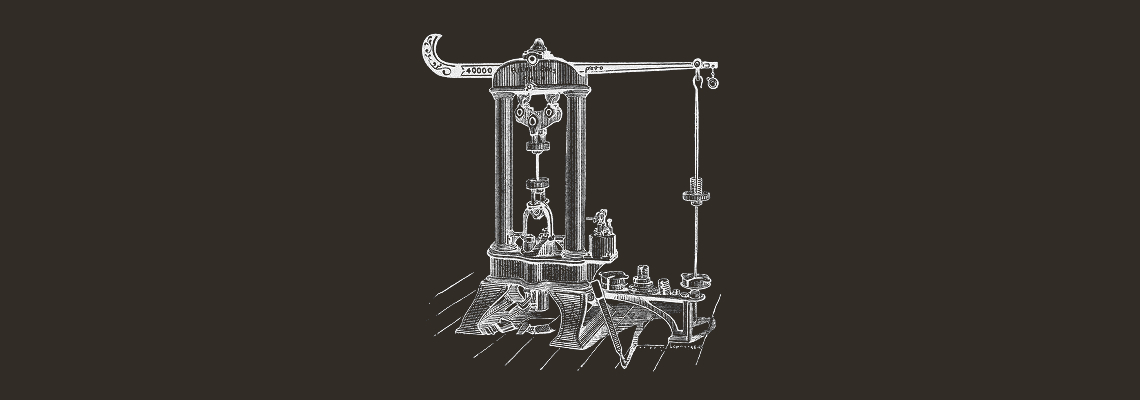
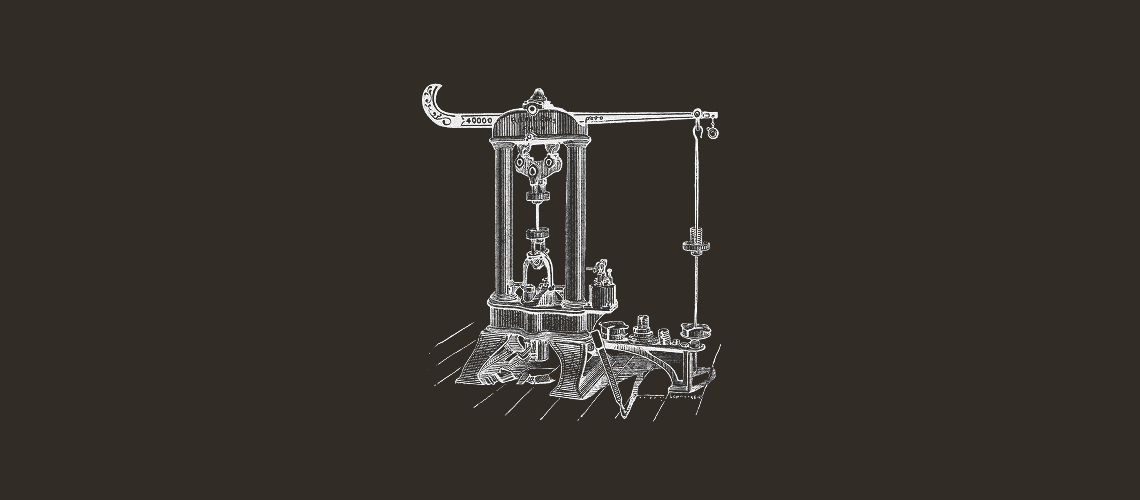
Minor design improvements and tweaks.

Changed region(s): [[0.3684, 0.09, 0.6447, 0.93], [0.5833, 0.45, 0.6447, 0.51]]

diff --git a/themes/botwiki/css/main.3.2.min.css b/themes/botwiki/css/main.3.2.min.css
@@ -1,0 +1,1 @@
+#header h1 a:hover,a,a.pilcrow:hover,a:visited,h1 a,h2 a,h3 a,h4 a,h5 a,h6 a{text-decoration:none}*{box-sizing:border-box}a,abbr,acronym,address,applet,big,blockquote,body,caption,cite,code,dd,del,dfn,div,dl,dt,em,fieldset,font,form,h1,h2,h3,h4,h5,h6,html,iframe,img,ins,kbd,label,legend,li,object,ol,p,pre,q,s,samp,small,span,strike,strong,sub,sup,table,tbody,td,tfoot,th,thead,tr,tt,ul,var{margin:0;padding:0;border:0;outline:0;font-weight:inherit;font-style:inherit;font-size:100%;font-family:inherit;vertical-align:baseline}table{border-collapse:separate;border-spacing:0}caption,td,th{text-align:left;font-weight:400}blockquote:after,blockquote:before,q:after,q:before{content:""}blockquote,q{quotes:"" ""}article,aside,figure,footer,header,nav,section{display:block}button,input[type=button],input[type=submit],label{cursor:pointer}button{width:auto;overflow:visible}img{-ms-interpolation-mode:bicubic;max-width:100%}input,select,textarea{padding:5px;font-size:.8em;color:#666;background:#fff;border:1px solid #999;margin:0}input:focus,select:focus,textarea:focus{color:#160f18;background:#fff;border:1px solid #666}::-webkit-input-placeholder{font-family:'Source Serif Pro',serif}:-moz-placeholder{font-family:'Source Serif Pro',serif}::-moz-placeholder{font-family:'Source Serif Pro',serif}:-ms-input-placeholder{font-family:'Source Serif Pro',serif}body{font:1.2em 'Source Serif Pro',serif;color:#444;line-height:1.2em;padding-top:4em;margin:0 0 80px;background:#EDEDE8;-webkit-font-smoothing:antialiased}blockquote,div.search-instructions,em,i,p.search-instructions{font-style:italic}@media (max-width:860px){body{padding-top:2em}}a,a:visited{color:#4A89DC}a:active,a:hover{color:#160f18}a:hover{transition:all .2s linear}h1,h2,h3,h4,h5,h6{font-family:'Fjalla One',serif;color:#38313a;line-height:1.2em;padding:.5rem}@media (min-width:860px){a:active,a:hover{text-decoration:underline}h1,h2,h3,h4,h5,h6{padding:1rem 2rem}ol,ul{margin:1em 3rem;padding-left:2em}}h1,h2{padding-bottom:1rem}a.pilcrow,a.pilcrow:visited{color:#c0b9c2;transition:color .3s}a.pilcrow:hover{transition:color .3s;color:#160f18}#footer,#footer a{color:#38313a}#footer a,u{text-decoration:underline}h1{font-size:3em;padding-top:3rem}h2{font-size:2.5em;padding-top:1rem}h3{font-size:2em}h4{font-size:1.7em}sub,sup{font-size:smaller}ol,ul{margin:1em 3rem}ol ol,ol ul,ul ol,ul ul{margin:0}b,strong{font-weight:700}abbr,acronym{cursor:help;border-bottom:.1em dotted}td,td img{vertical-align:top}sub{vertical-align:sub}sup{vertical-align:super}code{font-family:Courier,"Courier New",Monaco,Tahoma;background:#eee;color:#333;padding:0 2px}pre{background:#eee;padding:0;margin-bottom:1em;overflow:auto}blockquote{margin:2em 0 2em 4em;padding-left:10px;padding-bottom:0;border-left:5px solid #e3e3de}@media (max-width:900px){blockquote{margin:2em 0 2em 1em}}blockquote p{padding:1em!important;margin:0!important}.twitter-tweet,blockquote.twitter-tweet,iframe,iframe.twitter-tweet{display:block;max-width:100%}.twitter-tweet.twitter-tweet-rendered{margin:2em auto!important}hr{border-top:solid 1px #dfdfdf;border-bottom:none;margin:2em auto;max-width:95%}section.footer-lists{margin:1em auto 3em}footer ul.footer-list{list-style-type:none;display:inline-block;vertical-align:top;width:25%;min-height:265px;margin:0;padding:1em;float:left}@media (max-width:900px){footer ul.footer-list{width:50%;padding:1em 0}}@media (max-width:700px){footer ul.footer-list{width:100%;text-align:center}}footer p{margin:1em auto}footer ul.footer-list li.list-header{text-transform:uppercase;font-weight:700;margin-bottom:1.6em}footer ul.footer-list li:not(.list-header){font-weight:400}footer ul.footer-list li{margin:.5em 0}.centered{display:block;margin:0 auto}.centered-text{text-align:center}img.centered{display:block;margin:3em auto;max-width:100%}@media (min-width:860px){img.extra-margin{margin-top:-1.3em}div.header-image img.header-image-small{display:none}}div.header-image{margin:0 0 -5px}.float-left,.float-right{max-width:410px}footer,footer .inner,header,header .inner{max-width:1500px}.float-right{float:right;padding-left:30px}.float-left{float:left;margin-right:2em;padding-left:0}img.main-banner{margin:10px 0 10px 50px}div.all-tags{text-align:justify}aside#sidebar p,div.sponsors-corporate-organizations,ul#menu{text-align:center}div.all-tags a{padding:0 .2em}.inner{margin:0 auto;padding:5px}@media (min-width:860px){.inner{padding:0 1em}li.active a{border-bottom:3px solid #F5F5F5}}#header{position:fixed;z-index:100;top:0;left:0;right:0;padding:1em 0;color:#5D9CEC;background-color:#38313a;box-shadow:0 4px 40px -15px #333;height:4em}@media (max-width:860px){div.header-image img.header-image-large{display:none}#header{padding:10px;font-size:2em;height:2em}ul#menu{float:right;overflow:auto;max-height:85vh}}#header a{color:#5D9CEC;padding-bottom:8px}#header h1 a{font-family:'Fjalla One',serif}#header a:hover,#header h1 a{color:#fff;text-decoration:none}@media (min-width:912px){#header nav a:hover{border-bottom:3px solid #F5F5F5}}#header a,#header a:hover{transition:border .1s}#header h1{font-size:1.6em;font-weight:700;margin:5px 0;float:left}footer,header{margin:0 auto}label.cursor-pointer{cursor:pointer}a#logo{float:left;margin:.3em .7em 0 0;color:#fff!important}a#logo:hover{border-bottom:none!important}ul#menu{margin-left:0;padding-left:0}#menu-toggle{display:none}#header #menu-icon-wrapper{float:right}#header #menu-icon{display:none;color:#fff;font-size:2em;margin-top:.1em;padding-top:5px;width:36px;height:24px}#header nav{list-style:none;margin:.2em 0 0;font-family:monospace}#header nav li{margin-top:-5px;margin-left:15px}#header nav li:nth-child(2){margin-left:0}#header nav li.form-wrapper{margin-left:0;margin-top:-5px;float:right;width:310px}@media (max-width:1040px){#header nav li.form-wrapper{margin-top:1em;margin-bottom:1em;float:none}}#header nav a{color:#fff;font-weight:bolder}#footer a,.note,aside#sidebar p,div.meta p.share-prompt,table.event-table td.event-speaker{font-weight:700}@media (min-width:1040px){#header nav a{font-size:1.1em}}#header #menu-toggle:checked#menu-icon{background-color:#444;border-radius:4px 4px 0 0}#header ul{list-style:none;padding-top:.6em;margin:0}#header li{display:inline-block;float:left}form#search-form{width:100%;margin-top:-.5em}form#search-form input{padding:.5em 1em;border-radius:4px;outline:0;width:100%;line-height:1.5em}div#content-wrapper{margin:0 auto;max-width:1500px}#content{min-height:90em;background-color:#fff;padding:0;margin-bottom:2em;font-size:1em;line-height:1.3em;position:relative}#footer,div.meta p.last-updated{font-size:.9em}@media (min-width:860px){aside#sidebar{display:block;max-width:300px;position:absolute;border-left:1px solid #f3f3f2;background-color:#f9f9f7;padding:3rem 10px 10px;right:0;top:0;bottom:0}}@media (max-width:860px){div#content-wrapper{margin-top:2em}aside#sidebar{overflow:auto}aside#sidebar hr{display:none}}aside#sidebar p{font-size:.9em;margin:0 .4em 1em}aside#sidebar img{display:block;margin:0 auto .7em}@media (max-width:860px+10px){div.sidebar-module{margin-top:3em;width:50%;min-height:300px;float:left}}aside#sidebar hr{max-width:25%}@media (max-width:700px){div.sidebar-module{margin-top:2em;min-height:auto;width:100%;float:none}aside#sidebar hr{display:block}}div#main{padding:0 0 2em}@media (min-width:860px){div.sidebar-module:not(:first-child){margin-top:10px}div#main{margin-right:300px}}@media (min-width:1040px){aside#sidebar{max-width:360px}div#main{margin-right:360px}}div#main p,p.screenshot{margin:1em 0;padding:.5rem}@media (min-width:800px){p.screenshot{max-width:50%}}p.screenshot img{border:1px solid #ddd}@media (min-width:860px){div#main p,p.screenshot{padding:.5rem 2rem}p.screenshot.float-right{padding-left:30px}p.screenshot.float-left{padding-right:30px}}p.empty-element{padding-top:0!important;padding-bottom:0!important;margin-top:0!important;margin-bottom:0!important}ol li p,ul li p{padding:0!important}#footer{line-height:1.2em;margin:2em auto}#footer a:hover{color:#6b646d}div.sponsors-corporate-organizations img{vertical-align:middle;margin:1em;max-width:300px;max-height:130px}table.event-table td{padding:.5em 0}table.event-table td.event-time{min-width:5em;font-weight:700}div#main p.search-instructions{margin-top:0;padding-top:2em}p.search-instructions code{font-style:normal}div.search-item{border-top:1px solid #eee;padding:2em 0 1em}.note{font-style:italic;background-color:#F7E967;margin:0;padding:0}.note p{padding:.5rem 2rem}.note-alternative{font-style:italic;margin:2em 0}.note.donations{margin-top:2em;padding:0}@media (min-width:860px){div.donations-top-fix{margin-top:-1.1rem}div.donations-top-fix .note.donations{margin-top:auto}}body.front-page .note.donations{margin:3em 0}span.normal-text{font-style:normal}div.meta p.share-prompt{border-top:2px dashed #dcdcd7;padding-top:2em!important;margin-top:2em!important}ul.sharing-is-caring{padding:0;list-style:none}@media (max-width:860px){ul.sharing-is-caring{margin:10px}}ul.sharing-is-caring li{display:inline}ul.sharing-is-caring li a{transition:opacity .4s}ul.sharing-is-caring li a img{max-width:1.8em;border-radius:50%}ul.sharing-is-caring li a:hover{opacity:.8;transition:opacity .4s}div.meta p.last-updated,div.search-item p.meta{font-style:italic}img.photo{margin:1em}@media (max-width:900px){img.photo{margin:2em auto .4em}}img.round-borders{border-radius:5px}div.article-thumbnail{text-align:center;padding-bottom:0;margin-bottom:1.5em}div.article-thumbnail img{margin-bottom:-10px}div.search-thumbnail img{border:1px solid #efefef}@media (min-width:800px){div.search-text,div.search-thumbnail{width:45%;padding:1em}div.search-thumbnail img{max-width:100%}div.search-thumbnail{float:right}div.search-text{float:left}}.clearfix:after,.clearfix:before{content:" ";display:table}.clearfix:after{clear:both}img.logo-digitalocean{height:1.15em;vertical-align:sub}@media (max-width:800px){.float-left,.float-right{max-width:100%;float:none;display:block;margin:0 auto}.float-right{padding-left:0}img.main-banner{margin:0 auto}.inner img{max-width:100%}#header h1 a{font-size:1em}}@media (max-width:1040px){div.article-thumbnail img{object-fit:cover;min-height:450px}#header #menu-icon{display:inline-block}#header nav a{color:#160f18}#header nav a:hover{color:#434a54}#header nav ul,nav:active ul,ul#menu{opacity:0;position:absolute;padding:20px;background:#fff;border-top:1px solid #38313a;border-bottom:1px solid #38313a;box-shadow:0 10px 100px -10px #333;left:-100px;top:2.3em;width:100%;z-index:9999;transition:all .2s;pointer-events:none}#header nav li{width:100%;padding:20px 0;margin:0 0 0 30px;opacity:0;transition:all .2s}div.callout{max-width:1500px;margin:0 auto;font-weight:700;background-color:#050007;color:#fff;overflow:auto;padding:.5em 0}div.callout>p{padding:0;margin:0;text-align:center}div.callout a{color:#fff;text-decoration:underline}#header nav li:nth-child(1){transition-delay:0s}#header nav li:nth-child(2){transition-delay:50ms}#header nav li:nth-child(3){transition-delay:.1s}#header nav li:nth-child(4){transition-delay:.15s}#header nav li:nth-child(5){transition-delay:.2s}#header nav li:nth-child(6){transition-delay:.25s}#header nav li:nth-child(7){transition-delay:.3s}#header nav li:nth-child(8){transition-delay:.35s}#header nav #menu-toggle:checked ul,#menu-toggle:checked+#menu{opacity:1;left:0;pointer-events:all}#header nav #menu-toggle:checked+#menu li{margin-left:0;opacity:1}}@media (max-width:1040px) and (min-width:1500px){#header nav li{padding:10px 0}}@media (max-width:480px){#header h1 a{font-size:1em}}div.bottom-page-links{position:fixed;bottom:10px;right:10px}div.bottom-page-links a{display:inline-block;cursor:pointer;width:1.5em;height:1.5em;text-decoration:none;line-height:1.5em;background-color:#38313a;color:#fff;vertical-align:top;text-align:right;font-size:2.5em;border-radius:5px}@media (min-width:860px){div.bottom-page-links a{opacity:.8;font-size:1.9em}}div.bottom-page-links a:hover{opacity:1}div.bottom-page-links a#back-to-top{padding:12px}a#search-help{position:absolute;margin-left:-1em;color:#dadada!important;top:2.3em}@media (min-width:860px){a#search-help{top:1.5em;margin-left:-25px}}a#search-help:hover{border:none!important;color:#adadad!important}video{width:100%!important;height:auto!important}.video-wrapper{position:relative;margin:3em 0;padding-bottom:56.25%;padding-top:25px;height:0}.video-wrapper iframe{position:absolute;top:0;left:0;width:100%;height:100%}.lazy-load{opacity:0;-webkit-transform:translate(0,30px);-ms-transform:translate(0,30px);transform:translate(0,30px)}.lazy-loaded{opacity:1;-webkit-transform:translate(0,0);-ms-transform:translate(0,0);transform:translate(0,0)}.lazy-load,.lazy-loaded{transition:all .3s}.slide-down,.slide-up{transition:all .5s}.slide-up{opacity:1;pointer-events:all;-webkit-transform:translate(0,0);-ms-transform:translate(0,0);transform:translate(0,0)}.slide-down{opacity:0;pointer-events:none;-webkit-transform:translate(0,150px);-ms-transform:translate(0,150px);transform:translate(0,150px)}

diff --git a/themes/botwiki/index.html b/themes/botwiki/index.html
@@ -43,7 +43,7 @@
   <link rel="icon" href="https://botwiki.org/content/images/favicon-32.png" sizes="32x32" />
   <link rel="icon" type="image/png" href="https://botwiki.org/content/images/favicon-64.png" />
   <link href='https://fonts.googleapis.com/css?family=Fjalla+One|Source+Serif+Pro|Bree+Serif|Lato' rel='stylesheet' type='text/css'>
-  <link rel="stylesheet" href="{{ theme_url }}/css/main.3.1.3.min.css" type="text/css" />  
+  <link rel="stylesheet" href="{{ theme_url }}/css/main.3.2.min.css" type="text/css" />  
 {% if meta.has_code == 'yes' %}
   <link rel="stylesheet" href="{{ theme_url }}/libs/highlight.js/styles/monokai-sublime.css" type="text/css" />
 {% endif %}
@@ -74,7 +74,8 @@
     {% if is_front_page %}
       <div class="header-image">
         <a href="/bots/twitterbots/NixieBot">
-          <img src="{{ meta.thumbnail }}" data-src="{{ meta.thumbnail }}" class="u-photo lazy-load">
+          <img class="header-image-large u-photo lazy-load" src="{{ meta.thumbnail }}" data-src="{{ meta.thumbnail }}">
+          <img class="header-image-small u-photo lazy-load" src="{{ meta.smallthumbnail }}" data-src="{{ meta.smallthumbnail }}">
         </a>
       </div>
     {% endif %}

diff --git a/themes/botwiki/css/main.3.2.css b/themes/botwiki/css/main.3.2.css
@@ -408,6 +408,16 @@ div.header-image {
   margin: 0 0 -5px;
   /* ??? */
 }
+@media (min-width: 860px) {
+  div.header-image img.header-image-small {
+    display: none;
+  }
+}
+@media (max-width: 860px) {
+  div.header-image img.header-image-large {
+    display: none;
+  }
+}
 .float-right,
 .float-left {
   max-width: 410px;
@@ -874,10 +884,17 @@ img.round-borders {
 div.article-thumbnail {
   text-align: center;
   padding-bottom: 0;
+  margin-bottom: 1.5em;
 }
 div.article-thumbnail img {
   margin-bottom: -10px;
   /* ??? */
+}
+@media (max-width: 1040px) {
+  div.article-thumbnail img {
+    object-fit: cover;
+    min-height: 450px;
+  }
 }
 div.search-thumbnail img {
   border: 1px solid #efefef;

diff --git a/themes/botwiki/src/styles/styles.less b/themes/botwiki/src/styles/styles.less
@@ -356,6 +356,16 @@ img.extra-margin{
 
 div.header-image{
   margin: 0 0 -5px; /* ??? */
+  img.header-image-small{
+    @media (min-width: @site-width-small){
+      display: none;
+    }
+  }
+  img.header-image-large{
+    @media (max-width: @site-width-small){
+      display: none;
+    }
+  }
 }
 
 .float-right,
@@ -859,8 +869,13 @@ img.round-borders{
 div.article-thumbnail{
   text-align: center;
   padding-bottom: 0;
+  margin-bottom: 1.5em;
   img{
     margin-bottom: -10px; /* ??? */
+    @media (max-width: @site-width-medium){
+      object-fit: cover;
+      min-height: 450px;
+    }
   }
 }
 

diff --git a/config.php b/config.php
@@ -44,6 +44,7 @@ $config['ptags_template'] = 'index';
 $config['custom_meta_values'] = array(
   'nav' => 'Nav',
   'thumbnail' => 'Thumbnail',
+  'smallthumbnail' => 'Small thumbnail',
   'link' => 'Link',
   'language' => 'Language',
   'translations' => 'Translations',

diff --git a/content/articles/selected-articles/2016.md b/content/articles/selected-articles/2016.md
@@ -9,6 +9,7 @@ Show donation link: yes
 
 For the latest articles follow [@botwikidotorg](https://twitter.com/botwikidotorg) and subscribe to the [Bot! zine](http://botzine.org/) newsletter!
 
+- [Google AI invents its own cryptographic algorithm; no one knows how it works](http://arstechnica.co.uk/information-technology/2016/10/google-ai-neural-network-cryptography/) (arstechnica.co.uk)
 - [A.I. Inspiration: The Science Fiction That Frames Discussion](http://www.nytimes.com/2016/10/26/us/robots-science-fiction-movies-books.html) (nytimes.com)
 - [Chatbots with Social Skills Will Convince You to Buy Something](https://www.technologyreview.com/s/602692/chatbots-with-social-skills-will-convince-you-to-buy-something/) (technologyreview.com)
 - [33% of pro-Trump tweets are generated by bots and automated accounts, compared to 22% for Clinton, researchers find](http://money.cnn.com/2016/10/18/technology/twitter-bots-donald-trump-hillary-clinton/index.html?sr=twCNN101816twitter-bots-donald-trump-hillary-clinton0514PMVODtopLink&linkId=30079940) (money.cnn.com)

diff --git a/content/index.md b/content/index.md
@@ -3,6 +3,7 @@ Title: Catalog of friendly, useful, artistic online bots, and resources that can
 Description: Botwiki.org is an open-source collection of tutorials, articles, datasets and other resources for creating useful, interesting, artistic and friendly online bots.
 Nav: hidden
 Thumbnail: /content/images/botwiki-nixiebot-1500px.jpg
+Small thumbnail: /content/images/botwiki-nixiebot-small-thumbnail.jpg
 Show donation link: yes
 */
 
